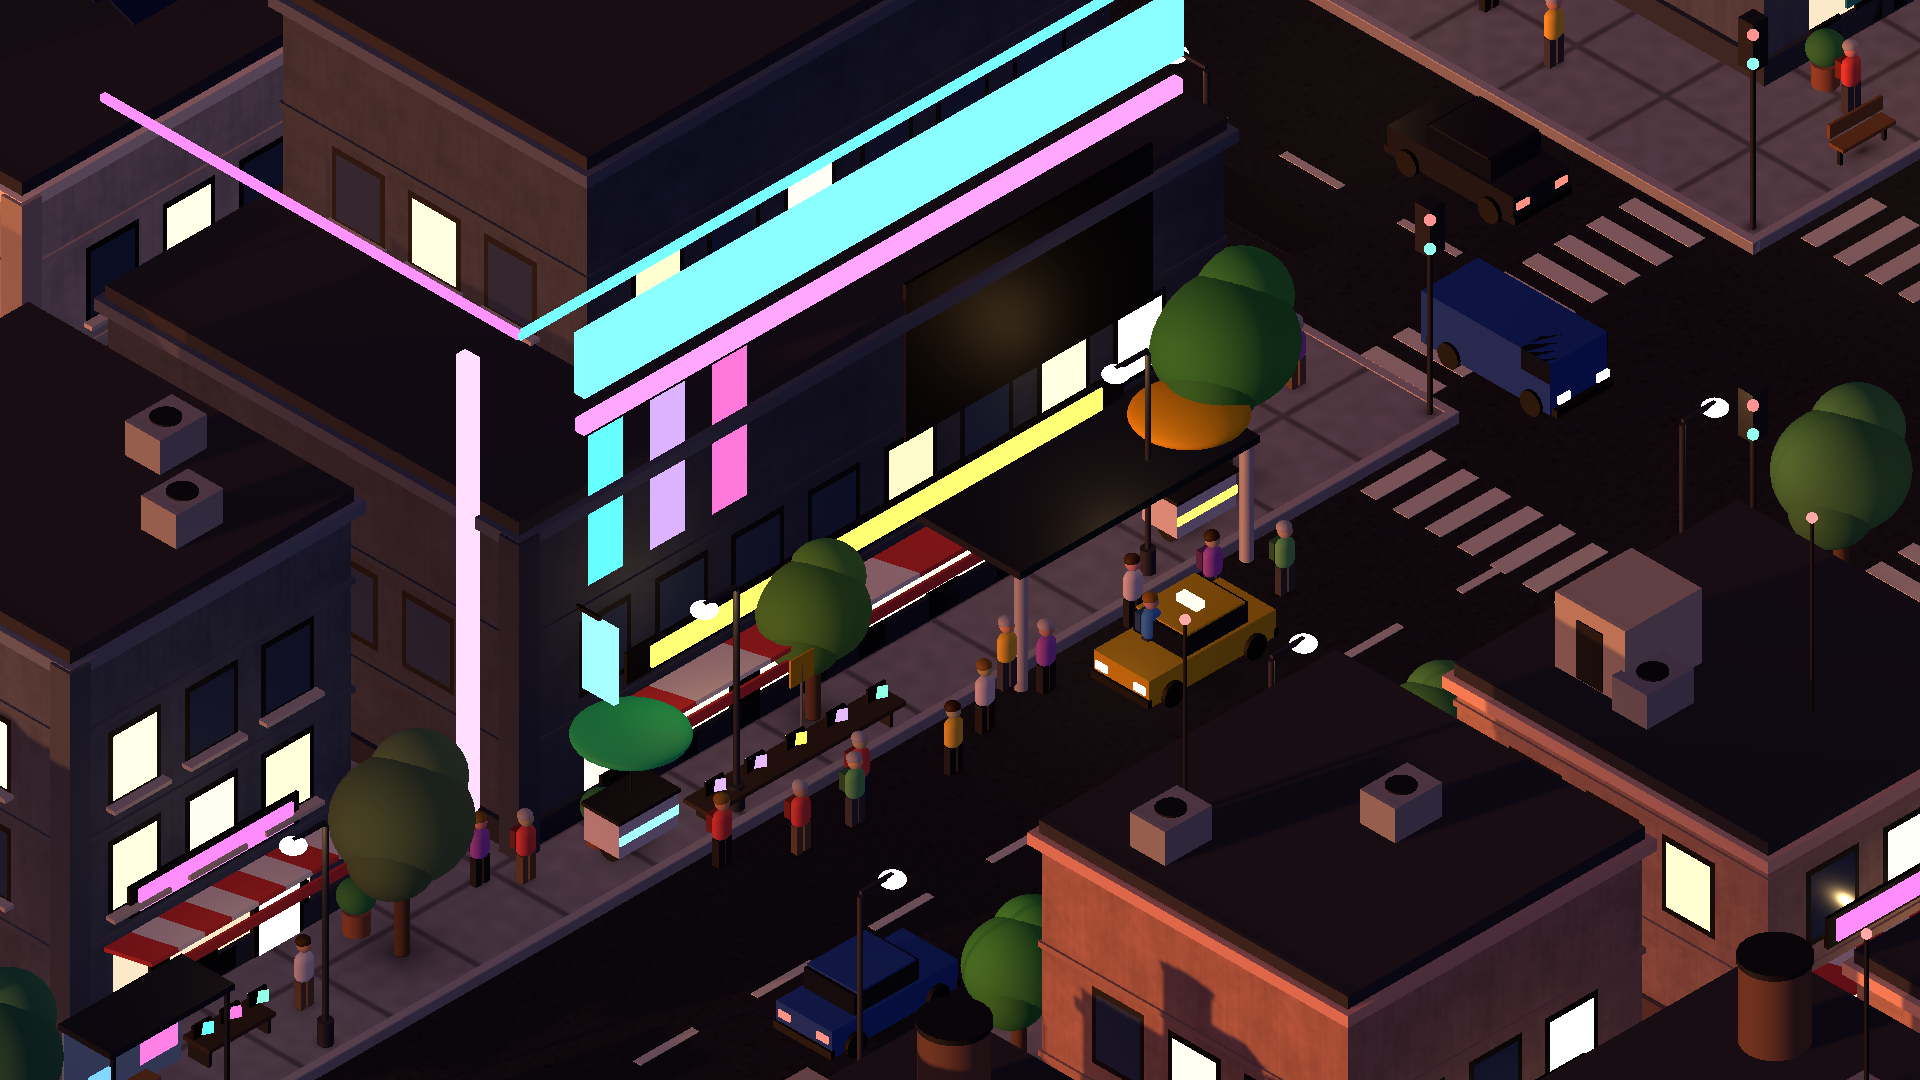
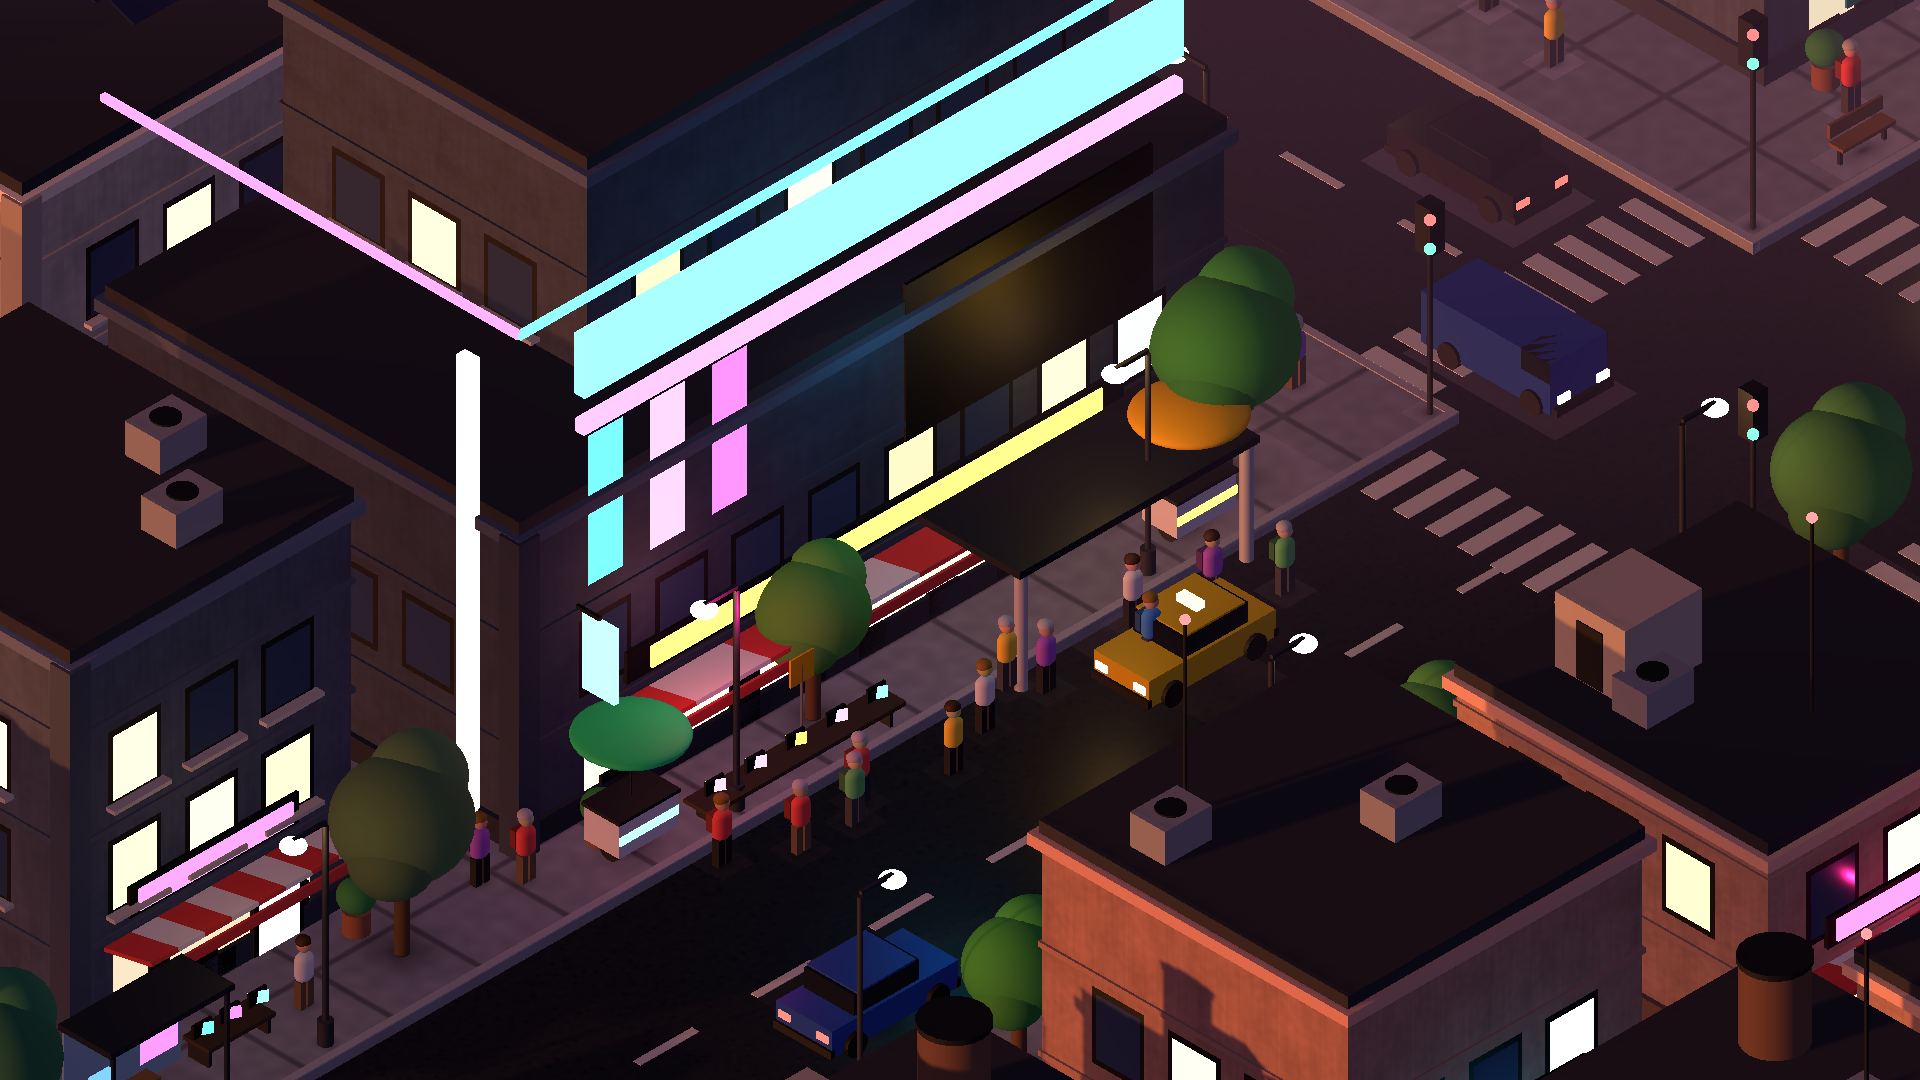
art: cyberpunk lighting pass (neon lights, fog, SSAO, reflection probe, grading)

diff --git a/Assets/Scripts/Game/Procedural/ProceduralCityBuilder.Buildings.cs b/Assets/Scripts/Game/Procedural/ProceduralCityBuilder.Buildings.cs
@@ -208,13 +208,13 @@ namespace PCShopSell.Game.Procedural
             Cube("SignBack", new Vector3(cx, 3.95f, frontZ - 0.05f), new Vector3(shopW * 0.86f, 0.9f, 0.16f),
                 Lit(new Color(0.07f, 0.07f, 0.09f), 0.3f), false);
             Cube("Sign", new Vector3(cx, 3.95f, frontZ - 0.16f), new Vector3(shopW * 0.78f, 0.62f, 0.1f),
-                Emissive(neon, _look.EmissiveIntensity * 1.1f), false);
+                Emissive(neon, _look.NeonBoost * _look.EmissiveIntensity * 1.1f), false);
 
             // 垂直挑牌（从侧面看得到）
             if (hero || _rng.NextDouble() < 0.4)
             {
                 Cube("BladeSign", new Vector3(cx - shopW / 2f - 0.2f, 5.4f, frontZ - 0.8f), new Vector3(0.16f, 2.2f, 1.1f),
-                    Emissive(neon2, _look.EmissiveIntensity * 1.2f), false);
+                    Emissive(neon2, _look.NeonBoost * _look.EmissiveIntensity * 1.2f), false);
                 Cube("BladeArm", new Vector3(cx - shopW / 2f - 0.2f, 6.55f, frontZ - 0.35f), new Vector3(0.1f, 0.1f, 0.9f),
                     Lit(new Color(0.15f, 0.15f, 0.17f), 0.4f, 0.4f), false);
             }
@@ -257,25 +257,30 @@ namespace PCShopSell.Game.Procedural
                     Cube("Monitor", new Vector3(sx1, 1.25f, frontZ - 2.3f), new Vector3(0.62f, 0.4f, 0.08f),
                         Lit(new Color(0.06f, 0.06f, 0.08f), 0.4f), false);
                     var scr = Quad("MonitorScreen", new Vector3(sx1, 1.25f, frontZ - 2.35f), new Vector3(-0.5f, 0.1f, -1f),
-                        new Vector3(0.55f, 0.34f, 1f), Emissive(c, _look.EmissiveIntensity * 0.9f));
+                        new Vector3(0.55f, 0.34f, 1f), Emissive(c, _look.NeonBoost * _look.EmissiveIntensity * 0.9f));
                     _ = scr;
                 }
             }
 
-            // 店门前补光
-            if (_look.LampsOn && _shopLights < 9)
+            // 店门前霓虹补光：招牌颜色的光洒在街面上
+            if (_look.LampsOn && _shopLights < 12)
             {
-                var l = new GameObject("ShopLight");
-                l.transform.SetParent(_root, false);
-                l.transform.position = new Vector3(cx, 2.4f, frontZ - 2.2f);
-                var light = l.AddComponent<Light>();
-                light.type = LightType.Point;
-                light.color = new Color(1f, 0.82f, 0.55f);
-                light.range = 9f;
-                light.intensity = _look.LampIntensity * 0.9f;
-                light.shadows = LightShadows.None;
+                AddPointLight("ShopNeonLight", new Vector3(cx, 3.2f, frontZ - 2.0f), neon, 11f, _look.NeonLightIntensity * 0.6f);
                 _shopLights++;
             }
+        }
+
+        private void AddPointLight(string name, Vector3 pos, Color color, float range, float intensity)
+        {
+            var l = new GameObject(name);
+            l.transform.SetParent(_root, false);
+            l.transform.position = pos;
+            var light = l.AddComponent<Light>();
+            light.type = LightType.Point;
+            light.color = color;
+            light.range = range;
+            light.intensity = intensity;
+            light.shadows = LightShadows.None;
         }
 
         // ------------------------------------------------------------------ 屋顶
@@ -339,7 +344,7 @@ namespace PCShopSell.Game.Procedural
                 Cube("BoardLegL", new Vector3(bx - w * 0.25f, y + 1.0f, bz), new Vector3(0.18f, 2f, 0.18f), dark, false);
                 Cube("BoardLegR", new Vector3(bx + w * 0.25f, y + 1.0f, bz), new Vector3(0.18f, 2f, 0.18f), dark, false);
                 Cube("Board", new Vector3(bx, y + 3.0f, bz), new Vector3(w * 0.6f, 2.2f, 0.16f),
-                    Emissive(c, _look.EmissiveIntensity * 1.4f), false);
+                    Emissive(c, _look.NeonBoost * _look.EmissiveIntensity * 1.4f), false);
             }
 
             // 屋顶绿化
@@ -370,17 +375,17 @@ namespace PCShopSell.Game.Procedural
 
             // 顶部大招牌：双色霓虹条（暗示"电子城"）
             Cube("MallSignTop", new Vector3(cx, h - 1.2f, front - 0.25f), new Vector3(w * 0.85f, 1.8f, 0.35f),
-                Emissive(NeonPalette[1], _look.EmissiveIntensity * 1.6f), false);
+                Emissive(NeonPalette[1], _look.NeonBoost * _look.EmissiveIntensity * 1.6f), false);
             Cube("MallSignBar", new Vector3(cx, h - 3.0f, front - 0.25f), new Vector3(w * 0.85f, 0.4f, 0.3f),
-                Emissive(NeonPalette[0], _look.EmissiveIntensity * 1.6f), false);
+                Emissive(NeonPalette[0], _look.NeonBoost * _look.EmissiveIntensity * 1.6f), false);
 
             // 侧面竖向霓虹
             Cube("MallSideNeon", new Vector3(cx - w / 2f - 0.25f, h / 2f, front + 1.5f), new Vector3(0.3f, h * 0.9f, 0.5f),
-                Emissive(NeonPalette[3], _look.EmissiveIntensity * 1.3f), false);
+                Emissive(NeonPalette[3], _look.NeonBoost * _look.EmissiveIntensity * 1.3f), false);
 
             // 大屏幕
             Quad("MallScreen", new Vector3(cx + w * 0.22f, 8.2f, front - 0.06f), Vector3.back,
-                new Vector3(8f, 4.2f, 1f), Emissive(NeonPalette[2], _look.EmissiveIntensity * 0.9f));
+                new Vector3(8f, 4.2f, 1f), Emissive(NeonPalette[2], _look.NeonBoost * _look.EmissiveIntensity * 0.9f));
             Cube("MallScreenFrame", new Vector3(cx + w * 0.22f, 8.2f, front - 0.04f), new Vector3(8.4f, 4.6f, 0.1f),
                 Lit(new Color(0.06f, 0.06f, 0.08f), 0.4f), false);
 
@@ -389,14 +394,22 @@ namespace PCShopSell.Game.Procedural
             {
                 Color c = NeonPalette[(i * 2 + 1) % NeonPalette.Length];
                 Quad("Banner", new Vector3(cx - w * 0.38f + i * 2.1f, 9.2f, front - 0.06f), Vector3.back,
-                    new Vector3(1.2f, 4.4f, 1f), Emissive(c, _look.EmissiveIntensity * 0.8f));
+                    new Vector3(1.2f, 4.4f, 1f), Emissive(c, _look.NeonBoost * _look.EmissiveIntensity * 0.8f));
+            }
+
+            // 霓虹光照：青色、洋红、黄色三种光洒向街面和对面建筑
+            if (_look.LampsOn)
+            {
+                AddPointLight("MallCyanLight", new Vector3(cx, 11f, front - 3f), NeonPalette[1], 24f, _look.NeonLightIntensity * 1.6f);
+                AddPointLight("MallMagentaLight", new Vector3(cx - w * 0.3f, 6f, front - 3f), NeonPalette[0], 18f, _look.NeonLightIntensity * 1.2f);
+                AddPointLight("MallYellowLight", new Vector3(cx + w * 0.22f, 8f, front - 2.5f), NeonPalette[2], 16f, _look.NeonLightIntensity * 1.0f);
             }
 
             // 屋顶轮廓灯带
-            var led = Emissive(NeonPalette[1], _look.EmissiveIntensity * 1.2f);
+            var led = Emissive(NeonPalette[1], _look.NeonBoost * _look.EmissiveIntensity * 1.2f);
             Cube("LedFront", new Vector3(cx, h + 0.55f, front - 0.1f), new Vector3(w + 0.3f, 0.18f, 0.18f), led, false);
             Cube("LedLeft", new Vector3(cx - w / 2f - 0.1f, h + 0.55f, cz), new Vector3(0.18f, 0.18f, d + 0.2f),
-                Emissive(NeonPalette[0], _look.EmissiveIntensity * 1.2f), false);
+                Emissive(NeonPalette[0], _look.NeonBoost * _look.EmissiveIntensity * 1.2f), false);
 
             // 屋顶卫星天线
             var dish = Lit(new Color(0.80f, 0.82f, 0.85f), 0.5f, 0.2f);

diff --git a/Assets/Editor/PreviewRenderer.cs b/Assets/Editor/PreviewRenderer.cs
@@ -86,6 +86,7 @@ namespace PCShopSell.EditorTools
                     var city = builder.Build();
 
                     ApplyLook(look, cam, sun, volume);
+                    string probePath = BakeProbe(city, look);
 
                     // 全景
                     PlaceCamera(cam, new Vector3(0f, 2f, 0f), 34f);
@@ -97,9 +98,43 @@ namespace PCShopSell.EditorTools
                     Save(cam, Path.Combine(outDir, $"city_{look.Name}_closeup.png"));
 
                     UnityEngine.Object.DestroyImmediate(city);
+                    if (probePath != null) AssetDatabase.DeleteAsset(probePath);
                 }
             }
             Debug.Log("Preview images written to " + outDir);
+        }
+
+        /// <summary>烘焙一个覆盖整座城市的反射探针，让湿润路面和玻璃反射出霓虹。</summary>
+        private static string BakeProbe(GameObject city, CityLookProfile look)
+        {
+            foreach (var t in city.GetComponentsInChildren<Transform>())
+                GameObjectUtility.SetStaticEditorFlags(t.gameObject, StaticEditorFlags.ReflectionProbeStatic);
+
+            var go = new GameObject("CityProbe");
+            go.transform.SetParent(city.transform, false);
+            go.transform.position = new Vector3(0f, 6f, 0f);
+            var probe = go.AddComponent<ReflectionProbe>();
+            probe.mode = UnityEngine.Rendering.ReflectionProbeMode.Baked;
+            probe.resolution = 256;
+            probe.hdr = true;
+            probe.boxProjection = true;
+            probe.size = new Vector3(190f, 60f, 190f);
+            probe.center = Vector3.zero;
+            probe.intensity = 1f;
+            probe.importance = 1;
+            probe.clearFlags = UnityEngine.Rendering.ReflectionProbeClearFlags.SolidColor;
+            probe.backgroundColor = look.SkyColor;
+            probe.nearClipPlane = 0.3f;
+            probe.farClipPlane = 400f;
+
+            string path = "Assets/Settings/ProbeTemp_" + look.Name + ".exr";
+            bool ok = Lightmapping.BakeReflectionProbe(probe, path);
+            Debug.Log("DIAG probe bake " + look.Name + " ok=" + ok);
+            if (!ok) return null;
+
+            AssetDatabase.ImportAsset(path);
+            probe.bakedTexture = AssetDatabase.LoadAssetAtPath<Texture>(path);
+            return path;
         }
 
         private static void ApplyLook(CityLookProfile look, Camera cam, Light sun, Volume volume)
@@ -109,7 +144,11 @@ namespace PCShopSell.EditorTools
             RenderSettings.ambientMode = AmbientMode.Flat;
             RenderSettings.ambientLight = look.AmbientColor;
             RenderSettings.skybox = null;
-            RenderSettings.fog = false;
+            RenderSettings.fog = look.Fog;
+            RenderSettings.fogMode = FogMode.Linear;
+            RenderSettings.fogColor = look.FogColor;
+            RenderSettings.fogStartDistance = look.FogStart;
+            RenderSettings.fogEndDistance = look.FogEnd;
 
             sun.color = look.SunColor;
             sun.intensity = look.SunIntensity;
@@ -129,6 +168,23 @@ namespace PCShopSell.EditorTools
             grade.postExposure.Override(look.Exposure);
             grade.saturation.Override(look.Saturation);
             grade.contrast.Override(look.Contrast);
+
+            if (look.ChromaticAberration > 0f)
+            {
+                var ca = profile.Add<ChromaticAberration>(true);
+                ca.intensity.Override(look.ChromaticAberration);
+            }
+
+            if (look.FilmGrain > 0f)
+            {
+                var grain = profile.Add<FilmGrain>(true);
+                grain.type.Override(FilmGrainLookup.Thin1);
+                grain.intensity.Override(look.FilmGrain);
+            }
+
+            var smh = profile.Add<ShadowsMidtonesHighlights>(true);
+            smh.shadows.Override(look.ShadowTint);
+            smh.highlights.Override(look.HighlightTint);
 
             var vig = profile.Add<Vignette>(true);
             vig.intensity.Override(look.Vignette);

diff --git a/Assets/Editor/UrpSetup.cs b/Assets/Editor/UrpSetup.cs
@@ -38,6 +38,8 @@ namespace PCShopSell.EditorTools
                 AssetDatabase.SaveAssets();
             }
 
+            EnsureSsao(renderer);
+
             var pipeline = AssetDatabase.LoadAssetAtPath<UniversalRenderPipelineAsset>(PipelinePath);
             if (pipeline == null)
             {
@@ -62,9 +64,44 @@ namespace PCShopSell.EditorTools
             return pipeline;
         }
 
+        private static void EnsureSsao(UniversalRendererData renderer)
+        {
+            foreach (var f in renderer.rendererFeatures)
+                if (f != null && f.GetType().Name == "ScreenSpaceAmbientOcclusion") return;
+
+            // 该类在 URP 14 中是 internal，只能用反射创建。
+            var ssaoType = typeof(UniversalRendererData).Assembly.GetType(
+                "UnityEngine.Rendering.Universal.ScreenSpaceAmbientOcclusion");
+            if (ssaoType == null) { Debug.LogWarning("SSAO type not found"); return; }
+            var ssao = (ScriptableRendererFeature)ScriptableObject.CreateInstance(ssaoType);
+            ssao.name = "ScreenSpaceAmbientOcclusion";
+            AssetDatabase.AddObjectToAsset(ssao, renderer);
+
+            var ss = new SerializedObject(ssao);
+            SetFloat(ss, "m_Settings.Intensity", 1.6f);
+            SetFloat(ss, "m_Settings.Radius", 0.7f);
+            SetFloat(ss, "m_Settings.DirectLightingStrength", 0.25f);
+            ss.ApplyModifiedPropertiesWithoutUndo();
+
+            var so = new SerializedObject(renderer);
+            var features = so.FindProperty("m_RendererFeatures");
+            var map = so.FindProperty("m_RendererFeatureMap");
+            features.arraySize++;
+            features.GetArrayElementAtIndex(features.arraySize - 1).objectReferenceValue = ssao;
+            AssetDatabase.TryGetGUIDAndLocalFileIdentifier(ssao, out string _, out long localId);
+            map.arraySize++;
+            map.GetArrayElementAtIndex(map.arraySize - 1).longValue = localId;
+            so.ApplyModifiedPropertiesWithoutUndo();
+
+            EditorUtility.SetDirty(renderer);
+            AssetDatabase.SaveAssets();
+        }
+
         private static void Configure(UniversalRenderPipelineAsset asset)
         {
             var so = new SerializedObject(asset);
+            SetBool(so, "m_ReflectionProbeBlending", true);
+            SetBool(so, "m_ReflectionProbeBoxProjection", true);
             SetInt(so, "m_MainLightShadowmapResolution", 4096);
             SetBool(so, "m_SoftShadowsSupported", true);
             SetBool(so, "m_SupportsHDR", true);

diff --git a/Assets/Scripts/Game/Procedural/ProceduralCityBuilder.Street.cs b/Assets/Scripts/Game/Procedural/ProceduralCityBuilder.Street.cs
@@ -130,7 +130,7 @@ namespace PCShopSell.Game.Procedural
             Cube("BusBack", pos + new Vector3(0, 1.5f, 0.85f), new Vector3(4.0f, 2.8f, 0.08f), glass, false);
             // 灯箱广告
             Quad("BusAd", pos + new Vector3(1.2f, 1.6f, 0.78f), Vector3.back, new Vector3(1.3f, 2.0f, 1f),
-                Emissive(NeonPalette[_rng.Next(NeonPalette.Length)], _look.EmissiveIntensity * 0.9f));
+                Emissive(NeonPalette[_rng.Next(NeonPalette.Length)], _look.NeonBoost * _look.EmissiveIntensity * 0.9f));
             Cube("BusBench", pos + new Vector3(-0.5f, 0.55f, 0.35f), new Vector3(2.2f, 0.1f, 0.5f),
                 Lit(new Color(0.55f, 0.38f, 0.22f), 0.2f), false);
             Cube("BusSign", pos + new Vector3(-2.4f, 2.2f, -0.8f), new Vector3(0.7f, 0.9f, 0.08f),
@@ -186,7 +186,7 @@ namespace PCShopSell.Game.Procedural
             Cube("CartBody", pos + new Vector3(0, 0.95f, 0), new Vector3(2.0f, 1.0f, 1.2f), body, true);
             Cube("CartTop", pos + new Vector3(0, 1.5f, 0), new Vector3(2.1f, 0.1f, 1.3f), dark, false);
             Cube("CartStripe", pos + new Vector3(0, 0.95f, -0.62f), new Vector3(2.02f, 0.25f, 0.04f),
-                Emissive(neon, _look.EmissiveIntensity * 1.2f), false);
+                Emissive(neon, _look.NeonBoost * _look.EmissiveIntensity * 1.2f), false);
             Cylinder("CartWheelL", pos + new Vector3(-0.7f, 0.35f, 0), new Vector3(0.7f, 0.06f, 0.7f), dark).transform.rotation = Quaternion.Euler(0, 0, 90);
             Cylinder("CartWheelR", pos + new Vector3(0.7f, 0.35f, 0), new Vector3(0.7f, 0.06f, 0.7f), dark).transform.rotation = Quaternion.Euler(0, 0, 90);
             Cylinder("UmbrellaPole", pos + new Vector3(0, 2.2f, 0), new Vector3(0.06f, 1.2f, 0.06f), dark);

diff --git a/Assets/Scripts/Game/Procedural/ProceduralCityBuilder.cs b/Assets/Scripts/Game/Procedural/ProceduralCityBuilder.cs
@@ -108,10 +108,11 @@ namespace PCShopSell.Game.Procedural
         private void BuildGround()
         {
             Cube("Asphalt", new Vector3(0, -0.1f, 0), new Vector3(WorldHalf * 2, 0.2f, WorldHalf * 2),
-                LitTex(new Color(0.16f, 0.17f, 0.19f), _asphaltTex, new Vector2(30, 30), 0.35f), false);
+                LitTex(new Color(0.16f, 0.17f, 0.19f), _asphaltTex, new Vector2(30, 30), _look.RoadSmoothness), false);
 
             float len = WorldHalf - RoadHalfWidth;
-            var pave = LitTex(new Color(0.60f, 0.61f, 0.64f), _paveTex, new Vector2(len / 6f, len / 6f), 0.15f);
+            var pave = LitTex(new Color(0.60f, 0.61f, 0.64f), _paveTex, new Vector2(len / 6f, len / 6f),
+                Mathf.Max(0.15f, _look.RoadSmoothness * 0.7f));
             var curb = Lit(new Color(0.68f, 0.68f, 0.70f), 0.2f);
 
             for (int sx = -1; sx <= 1; sx += 2)
